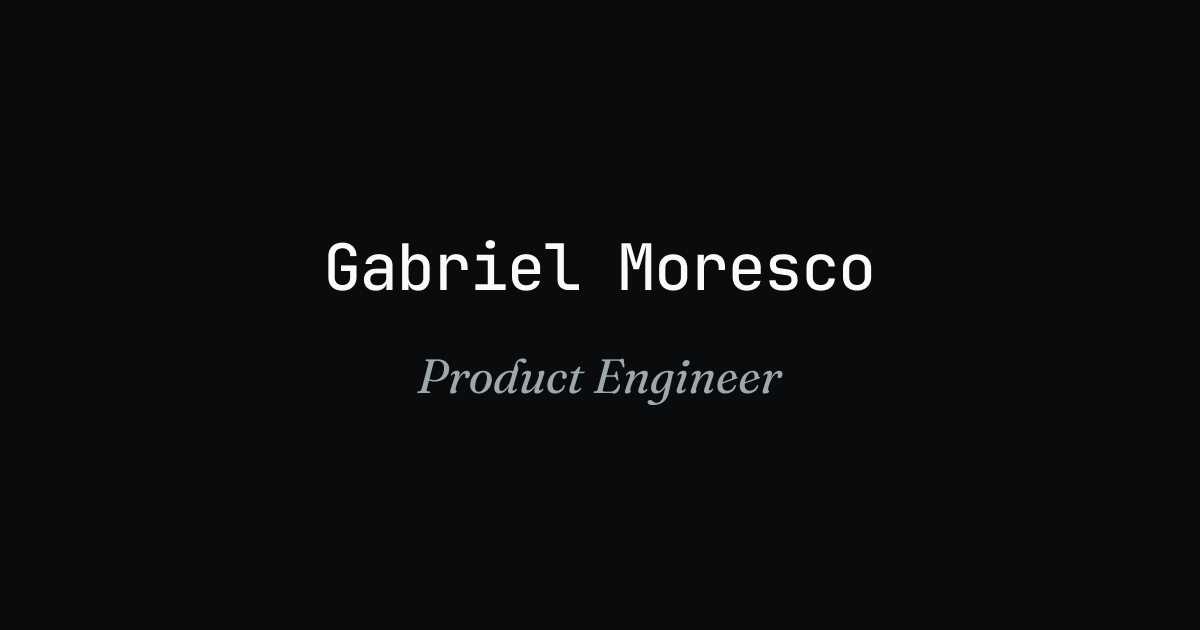
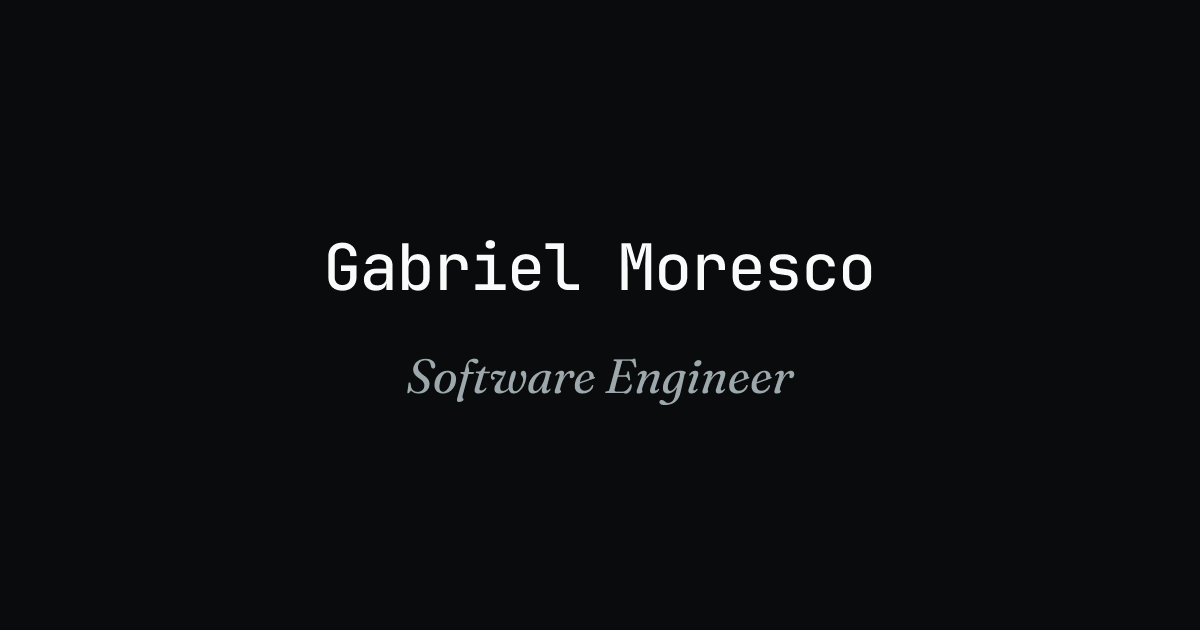
Update job title from "Product Engineer" to "Software Engineer" across multiple files and modify related descriptions.

Changed region(s): [[0.3392, 0.573, 0.6783, 0.6635]]

diff --git a/src/components/sections/introduction.tsx b/src/components/sections/introduction.tsx
@@ -72,7 +72,7 @@ export const Introduction = ({ delay }: IntroductionProps) => (
       </h1>
       <p className="flex items-baseline gap-1.5 text-xs text-muted-foreground">
         <span className="font-serif text-sm leading-none italic">
-          Product Engineer
+          Software Engineer
         </span>
         <span aria-hidden className="text-muted-foreground/60">
           ·
@@ -87,7 +87,7 @@ export const Introduction = ({ delay }: IntroductionProps) => (
     >
       <p>
         <span className="text-foreground">I&apos;m a builder-minded</span>{" "}
-        Product Engineer from Brazil, with 8+ years of experience building web,
+        Software Engineer from Brazil, with 8+ years of experience building web,
         mobile, and AI products.
       </p>
       <p>

diff --git a/src/app/layout.tsx b/src/app/layout.tsx
@@ -42,9 +42,9 @@ const structuredData = {
       "@id": `${url}/#person`,
       name: title,
       alternateName: "gabriel-moresco",
-      jobTitle: "Product Engineer",
+      jobTitle: "Software Engineer",
       description:
-        "Product Engineer from Brazil with 8+ years of experience building web, mobile, and AI products.",
+        "Software Engineer from Brazil with 8+ years of experience building web, mobile, and AI products.",
       image: profileImage,
       url,
       email: "mailto:gabriel.moresco25@gmail.com",
@@ -53,6 +53,7 @@ const structuredData = {
         "https://linkedin.com/in/gabriel-moresco",
       ],
       knowsAbout: [
+        "Software Engineering",
         "Product Engineering",
         "Web Applications",
         "Mobile Applications",

diff --git a/AGENTS.md b/AGENTS.md
@@ -10,7 +10,7 @@ This project is my personal website [moresco.cc](https://moresco.cc) - a minimal
 ### Typography
 
 - Base: JetBrains Mono (monospace everywhere)
-- Accent: Fraunces italic at text-sm on "Product Engineer"
+- Accent: Fraunces italic at text-sm on "Software Engineer"
 
 ### Icons
 
